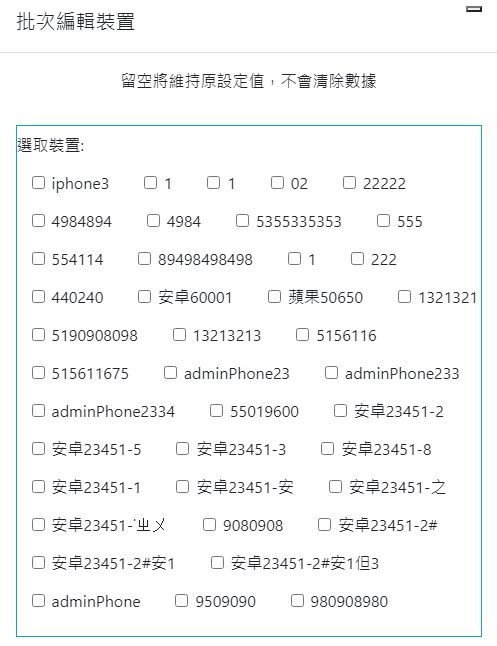
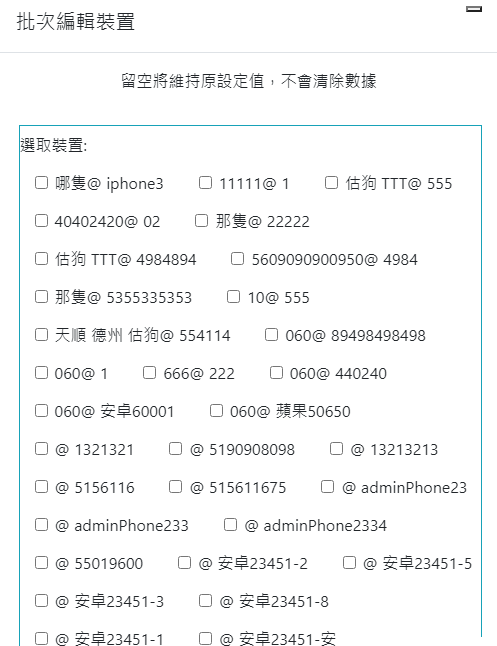
修改APP與相應API

diff --git a/resources/views/docmenu.blade.php b/resources/views/docmenu.blade.php
@@ -74,17 +74,18 @@
 
                     <h5 class="pt-2 text-warning"><b>記錄自訂名稱</b></h5>
                     <div class="p-2">
-                        <span>輸入此裝置的名稱，名稱不可與其他裝置重複，<b class="text-danger">需按儲存後才生效</b>。</span>
+                        <span>輸入此裝置的名稱<b class="text-danger">需按儲存後才生效，盡量取有辨識度的名字</b>。</span>
                         <div class="text-black-50 fw-lighter">tip:未儲存裝置名稱會無法註冊裝置到後台</div>
                     </div>
                     <h5 class="pt-2 text-primary"><b>註冊裝置及回應區塊</b></h5>
                     <div class="p-2">
-                        <span>儲存裝置名稱並沒有與其他裝置重複後，點擊「注册装置」將自動新增此裝置至後台的裝置管理中。此時「服务器回应」區塊會顯示"本机ID: ???????????? 已註冊" 並顯示OK字樣(OK只會顯示一次)</span>
+                        <span>儲存裝置名稱後，盡量取有辨識度的名字，點擊「注册装置」將自動新增此裝置至後台的裝置管理中。此時「服务器回应」區塊會顯示"本机ID: ???????????? 已註冊" 並顯示OK字樣(OK只會顯示一次)</span>
                         <div class="text-black-50 fw-lighter">tip:若未成功，在「服务器回应」區塊會顯示伺服器回應的原因</div>
+                        <div class="text-black-50 fw-lighter">tip:若顯示UID已被占用，仍然可以收到簡訊並傳到後台，但簡訊會被歸到之前已註冊的裝置內</div>
                     </div>
                 </div>
 
-                <!--初始設定-->
+                <!--詳細流程-->
                 <div class="tab-pane " id="start" role="tabpanel" >
                     <h3 class="py-3 text-center "><b>簡訊收發APP設定流程</b></h3>
                     <h4 class="py-2 mt-3">　　<b>詳細流程</b></h4>
@@ -117,7 +118,7 @@
                     <div class="text-black-50 fw-lighter">tip:若要確認上面步驟是否開啟成功，可按HOME鍵或返回鍵 回到手機首頁再回到app偵測權限，成功會顯示ok</div>
                     <div class="pt-5 px-5 pb-3">
                         <span>接下來輸入手機名稱後按儲存</span>
-                        <div class="text-black-50 fw-lighter">tip:請勿與其他裝置使用重複名稱</div>
+                        <div class="text-black-50 fw-lighter">tip:請取具有辨識度的名字</div>
                     </div>
                     <div>
                         <img src=/doc/name.PNG>
@@ -215,8 +216,9 @@
 
                     <h5 class="pt-2"><b>註冊需求</b></h5>
                     <div class="p-2">
-                        <span>手機上已儲存了一個未被註冊的名稱</span>
+                        <span>手機上已儲存了一個名稱</span>
                         <span>手機會返回安卓ID，但此值會因為重置原廠設定而改變</span>
+                        <span>部分廠牌會低機率發生重複安卓ID的現象，此時將變成共用同後台裝置的狀況，雖然沒顯示已註冊但簡訊還是可以收到</span>
                         <div class="text-black-50 fw-lighter">tip:名稱長度最多英文40中文20</div>
                     </div>
                     <div class="p-2">
@@ -224,7 +226,7 @@
                         </span>
                     </div>
                     <div class="p-2">
-                        <span>只要名稱未使用且網路正常即可，並且改名後記得按儲存鍵，若還是不行請洽技術。
+                        <span>只要UID未重複且網路正常即可，之後改名將不會再影響後台名稱，之後只認UID。
                         </span>
                     </div>
                 </div>
@@ -261,13 +263,13 @@
                         </div>
                     </div>
                     <div class="p-2">
-                        <span>Q:按註冊顯示 name:此 名稱 已被占用</span>
-                        <div class="">A:請先確認畫面是否有顯示已註冊，若已註冊就不需要重複註冊。若未顯示已註冊，表示裝置名稱跟已註冊的重複了，可以1.修改這支名稱並儲存，或是2.在後台的裝置設定中把同名的更名(但手機上顯示還會是舊的)，建議選1
+                        <span>Q:按註冊顯示 UID:此 UID 已被占用</span>
+                        <div class="">A:請先確認畫面是否有顯示已註冊，若已註冊就不需要重複註冊。若未顯示已註冊，表示裝置UID跟已註冊的重複了，可以1.無視此狀況繼續使用，或是2.重設手機重新取得UID，建議選1
                         </div>
                     </div>
                     <div class="p-2">
                         <span>Q:名稱可以亂打嗎?</span>
-                        <div class="">A:作業方便即可，但不可以重複。但後台更名後手機上並不會更動，若要自動同步會需要耗費很多資源。建議一開始用同一套模式取名，比如用卡名＋號或銀行。若很影響作業日後可更新。
+                        <div class="">A:作業方便即可，盡量取有辨識度的名稱。但後台更名後手機上並不會更動，手機更名也不會再影響後台，若要自動同步會需要耗費很多資源。建議一開始用同一套模式取名，比如用卡名＋號或銀行。
                         </div>
                     </div>
 
@@ -359,7 +361,8 @@
 
                     <h5 class="pt-5"><b>通知列</b></h5>
                     <div class="p-2">
-                        <span>若未給予通知權限，每五秒通知列會偵測是否有新通知，無須手動刷新。</span>
+                        <span>若未給予通知權限，每五秒通知列會偵測是否有新通知，無須手動刷新。</span><br>
+                        <span>顯示欄位為 裝置: (備註) @(裝置名稱) 商家:(商家) 號碼:(號碼) 含有關鍵字:(簡訊包含的 通知關鍵字 )</span>
                         <div class="text-black-50 fw-lighter">tip:點擊全部已讀可以清空通知，但會刷新頁面；若累積過多可能會讓點開時畫面變過長。此時可用 End 鍵到畫面底部</div>
                     </div>
                     <div class="mw-75 h-auto">
@@ -430,7 +433,7 @@
                     <div class="p-2">
                         <span  class="text-danger">多項目請以 <b>空格</b> 分隔</span>
                         <span >例：太陽 星星 月亮</span><br>
-                        <span>盡量不要修改裝置名稱，若修改請一併修改手機端的名稱並儲存</span><br>
+                        <span>裝置名稱為第一次手機註冊所獲取，若需要自行修改裝字名稱請用備註</span><br>
                         <span>裝置號碼也可以存複數末幾碼，如 2225 4443 可用於搜尋。</span><br>
                         <span>選取表格中的單個裝置按下編輯，出現如下圖畫面：</span>
                         <div class="text-black-50 fw-lighter">tip:留空不會覆蓋設定值，若要刪除請填入符號或替代內容，空格會被忽略，無法用空格來刪除(全形可以)</div>
@@ -464,7 +467,7 @@
                     <div class="p-2">
                         <span  class="text-danger">多項目請以 <b>空格</b> 分隔</span>
                         <span class="pb-1">例：太陽 星星 月亮</span><br>
-                        <span>此方式可依照 裝置名稱 一一勾選要編輯的裝置，可編輯項目如上圖，這裡省略</span>
+                        <span>此方式可依照 備註@ 裝置名稱 一一勾選要編輯的裝置，可編輯項目如上圖，這裡省略</span>
                         <div class="text-black-50 fw-lighter">tip:點擊名稱亦可勾選</div>
                     </div>
                     <div class="mw-75 h-auto">

diff --git a/app/Http/Controllers/APIController.php b/app/Http/Controllers/APIController.php
@@ -8,6 +8,7 @@ use App\Models\Device;
 use App\Models\Sms_list;
 use Illuminate\Http\Request;
 use Illuminate\Support\Facades\Auth;
+use Illuminate\Validation\Rule;
 use Illuminate\Validation\ValidationException;
 
 class APIController extends Controller
@@ -23,7 +24,8 @@ class APIController extends Controller
         try {
             $data= $request->validate([
                 'sms_sendtime' => 'required|date',
-                'name' => 'exists:App\Models\Device,name|required|string',
+                'name' => 'nullable|string',
+                'UID' => 'exists:App\Models\Device,UID|required|string',
                 'send_number' => 'required|string|max:255',
                 'sms_content' => 'required|string',
             ]);
@@ -43,6 +45,8 @@ class APIController extends Controller
         //檢查關鍵字並處理資料
         $data = $keywordServe->checkSMSKeyword($data);
         $this->log->newDataLog('sms',$id,$data);
+        unset($data['UID']);
+        unset($data['name']);
         Sms_list::create($data);
         return response('ok',200);
     }
@@ -53,9 +57,9 @@ class APIController extends Controller
         //資料驗證
         try {
             $dev= $request->validate([
-                'name' => 'unique:App\Models\Device,name|required|string|max:40',
+                'name' => 'required|string|max:40',
+                'UID' => 'unique:App\Models\Device,UID|required|string|max:255',
                 'number' => 'nullable|string',
-                'UID' => 'string|max:255',
             ]);
         } catch (ValidationException $exception) {
             $validatorInstance = $exception->validator;

diff --git a/resources/views/layouts/devmodal.blade.php b/resources/views/layouts/devmodal.blade.php
@@ -109,9 +109,9 @@
             <div class="mb-3 border border-info">
                 <label for="manydev" class="col-form-label">選取裝置:<div id="many_dev_name"></div></label>
                 <div  class="form-check  mb-3" id="manydev" >
-                    @foreach ( App\Models\Device::select("id","name")->get() as $value )
+                    @foreach ( App\Models\Device::select("id","name","note")->get() as $value )
                     <span class=" col-auto " id ="dev-{{$value->id}}">
-                        <label class="col-form-label "><input class="form-check-input" type="checkbox" name="id" data-id="{{$value->id}}" >{{$value->name}}</label>
+                        <label class="col-form-label "><input class="form-check-input" type="checkbox" name="id" data-id="{{$value->id}}" >{{$value->note}}@ {{$value->name}}</label>
                         <span>　</span>
                     </span>
                     @endforeach

diff --git a/app/Notifications/SMSCheck.php b/app/Notifications/SMSCheck.php
@@ -38,7 +38,7 @@ class SMSCheck extends Notification
      */
     public function toDatabase($notifiable)
     {
-        return ['裝置:'.$this->dev->name.' 號碼:'.$this->dev->number.' 含有關鍵字:'.$this->keyword];
+        return ['裝置:'.$this->dev->note.' @'.$this->dev->name.' 商家:'.$this->dev->businesses.'號碼:'.$this->dev->number.' 含有關鍵字:'.$this->keyword];
     }
 
     /**
@@ -50,7 +50,7 @@ class SMSCheck extends Notification
     public function toArray($notifiable)
     {
         return [
-            '裝置:'.$this->dev->name.' 號碼:'.$this->dev->number.' 含有關鍵字:',$this->keyword
+            '裝置:'.$this->dev->note.' @'.$this->dev->name.' 商家:'.$this->dev->businesses.'號碼:'.$this->dev->number.' 含有關鍵字:'.$this->keyword
         ];
     }
 }

diff --git a/app/Http/Controllers/DeviceController.php b/app/Http/Controllers/DeviceController.php
@@ -8,6 +8,7 @@ use App\Models\Device;
 use App\Models\User;
 use Illuminate\Http\Request;
 use Illuminate\Support\Facades\DB;
+use Illuminate\Validation\Rule;
 
 class DeviceController extends Controller
 {
@@ -47,7 +48,11 @@ class DeviceController extends Controller
         $data=Device::find($id);
             //若有資料 進行驗證
         $dev = collect($request->validate([
-            'name' => 'exists:App\Models\Device,name|nullable|string|max:40',
+            'name' => [
+                'nullable',
+                'string',
+                'max:40',
+                Rule::unique('App\Models\Device')->ignore($data->id),],
             //'number' => 'nullable|string|max:20|min:9',
             'UID' => 'nullable|string|max:255',
             'businesses' => 'nullable|string|max:255',

diff --git a/app/Http/Services/KeywordServe.php b/app/Http/Services/KeywordServe.php
@@ -8,11 +8,10 @@ class KeywordServe{
     public function checkSMSKeyword($data){
 
         //將號碼改為裝置id
-        $dev=Device::where('name',$data['name'])->first();
+        $dev=Device::where('UID',$data['UID'])->first();
 
         if($dev->noti_keywords===null || $dev->noti_keywords==" " || $dev->noti_keywords==""){
             $data = array_merge(['device_id'=>$dev->id,'keyword'=>"",'noticode'=> "0"],$data);
-            unset($data['name']);
             return $data;
         }
 
@@ -47,8 +46,6 @@ class KeywordServe{
             }
         }
         $data = array_merge(['device_id'=>$dev->id,'keyword'=>$keyword,'noticode'=> $code],$data);
-        unset($data['name']);
-
         return $data;
     }
 
